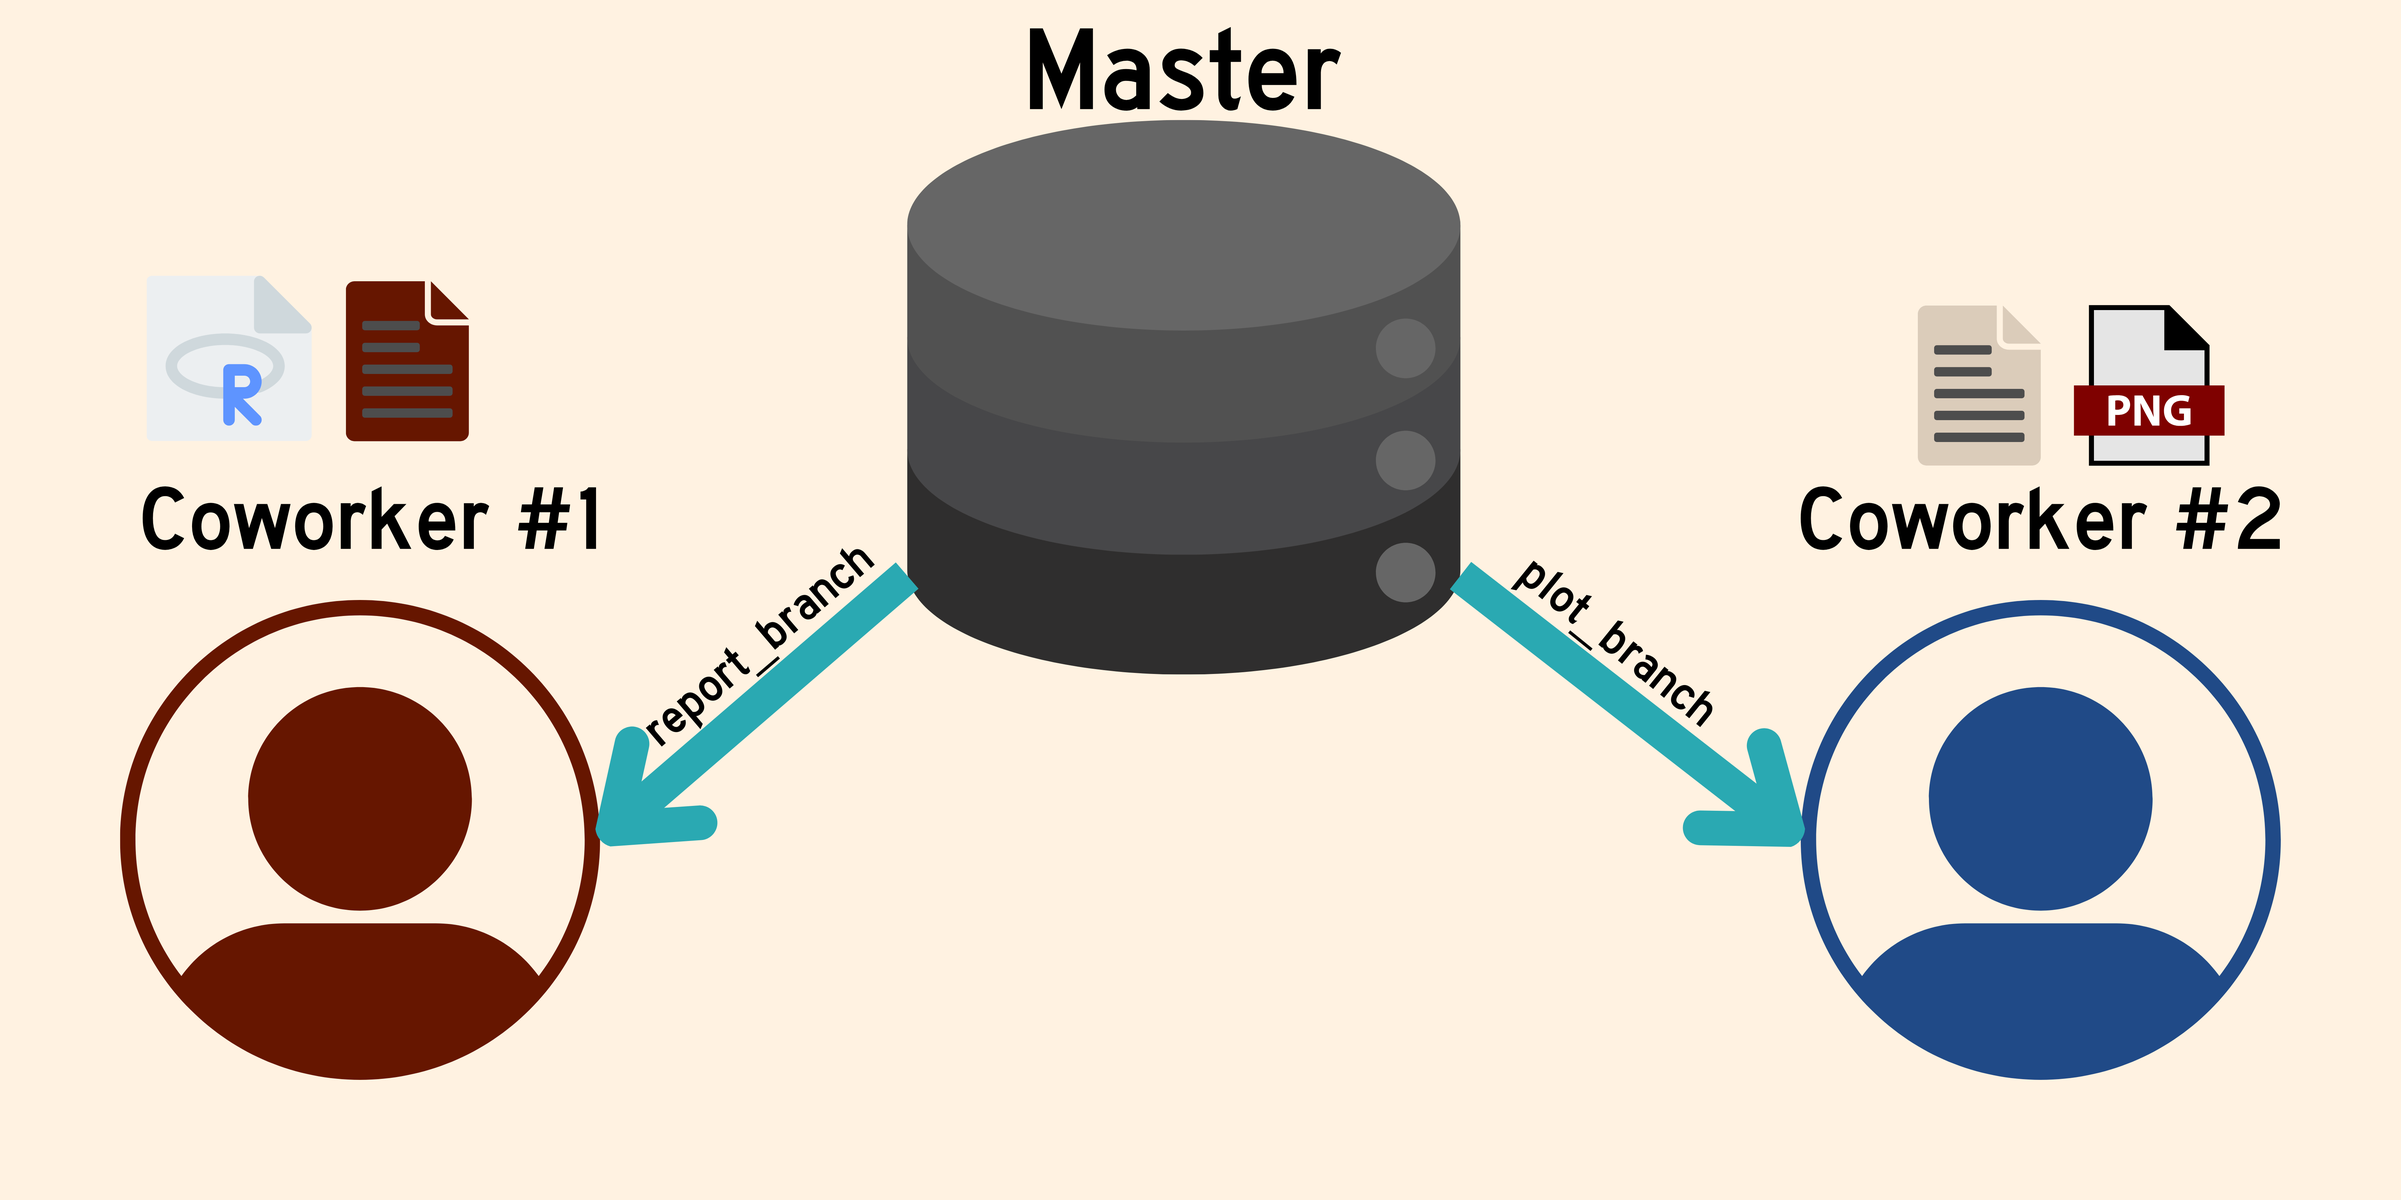
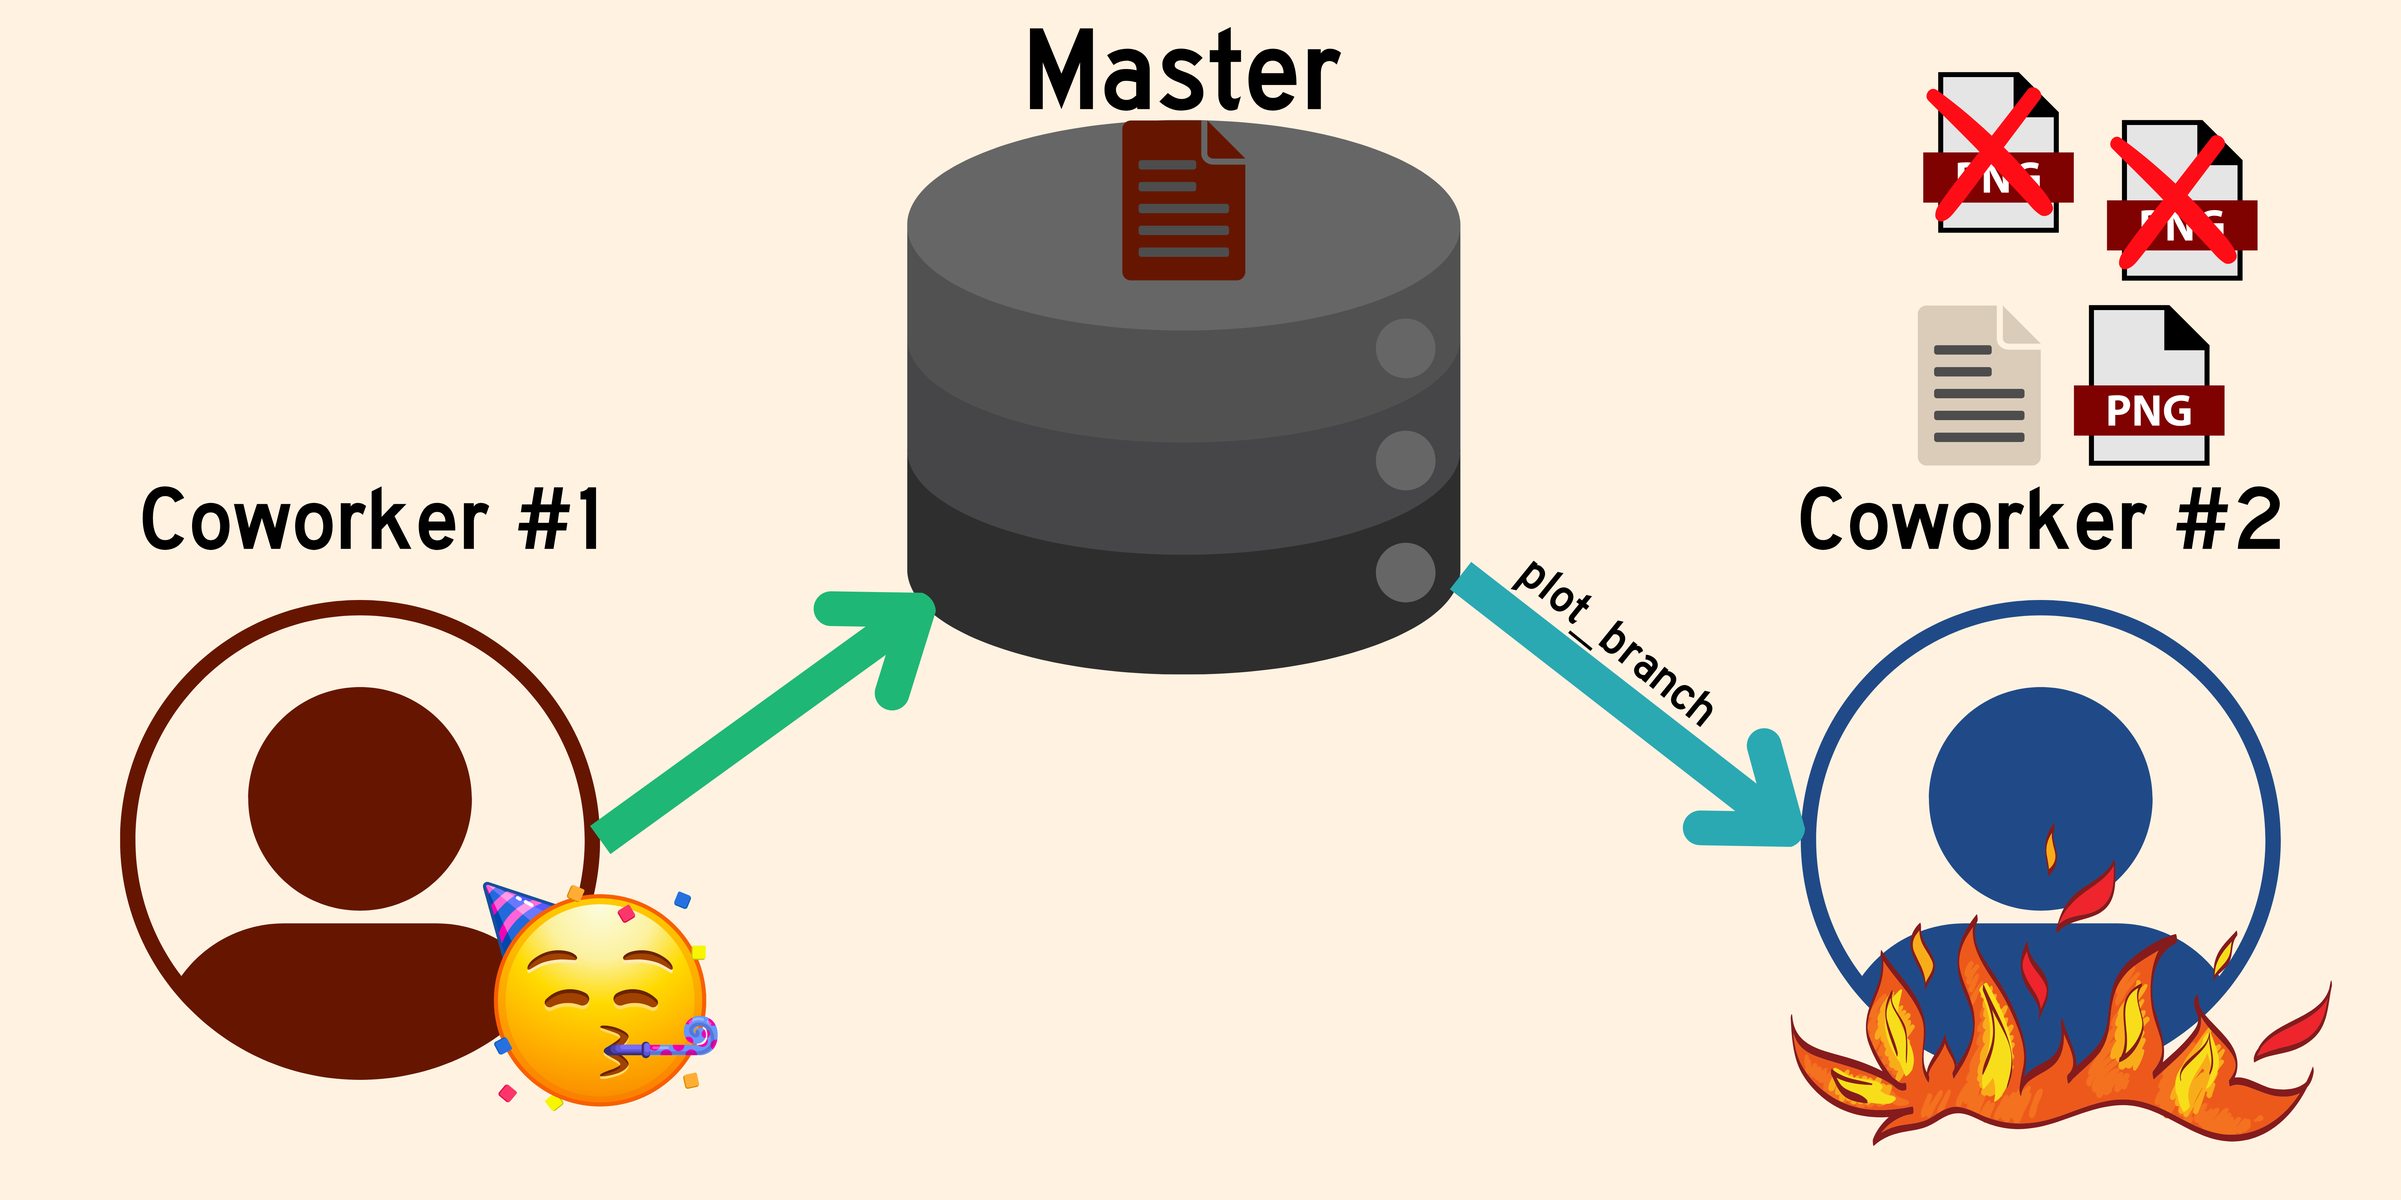
We are in cleanup Phase!!! 🎉

diff --git a/please_let_me_merge.html b/please_let_me_merge.html
@@ -1004,8 +1004,10 @@
 <h2>Simple Merge Conflict Example</h2>
 <aside class="notes">
 <ul>
-<li>coworker 1 is about done <br>changed config file to go w work</li>
-<li>meanwhile cw 2 is doing theirs w/ the orig vs.</li>
+<li>coworker 1 finishes<br></li>
+<li>changed config file to go w/ work<br></li>
+<li>pushes/merge np<br></li>
+<li>meanwhile cw 2 in iteration hell w/ the orig vs.</li>
 </ul>
 <style type="text/css">
         span.MJX_Assistive_MathML {
@@ -1022,10 +1024,7 @@
 <section id="simple-merge-conflict-example-2" class="slide level2 section-header" data-background-image="images/conflict_vis_3.png" data-background-size="contain" data-background-color="#1a1a1a">
 <h2>Simple Merge Conflict Example</h2>
 <aside class="notes">
-<ul>
-<li>eventually cw 1 done <br></li>
-<li>pushes/merge np</li>
-</ul>
+<p>when Cw2 finished, had to update config file<br> THEIR version of the config file is different<br> Now they have a merge conflict <br> So, ok. we have the scenario, let’s see what this conflict looks like in the code</p>
 <style type="text/css">
         span.MJX_Assistive_MathML {
           position:absolute!important;
@@ -1038,42 +1037,7 @@
           display:block!important;
       }</style></aside>
 </section>
-<section id="simple-merge-conflict-example-3" class="slide level2 section-header" data-background-image="images/conflict_vis_4.png" data-background-size="contain" data-background-color="#1a1a1a">
-<h2>Simple Merge Conflict Example</h2>
-<aside class="notes">
-<ul>
-<li>poor cw 2 is stuck in iteration hell <br></li>
-<li>takes a while, when done, changes config file</li>
-</ul>
-<style type="text/css">
-        span.MJX_Assistive_MathML {
-          position:absolute!important;
-          clip: rect(1px, 1px, 1px, 1px);
-          padding: 1px 0 0 0!important;
-          border: 0!important;
-          height: 1px!important;
-          width: 1px!important;
-          overflow: hidden!important;
-          display:block!important;
-      }</style></aside>
-</section>
-<section id="simple-merge-conflict-example-4" class="slide level2 section-header" data-background-image="images/conflict_vis_5.png" data-background-size="contain" data-background-color="#1a1a1a">
-<h2>Simple Merge Conflict Example</h2>
-<aside class="notes">
-<p>when Cw2 finished so much time passed, <br> THEIR version of the config file is different <br> Now they have a merge conflict <br> So, ok. we have the scenario, let’s see what this conflict looks like in the code</p>
-<style type="text/css">
-        span.MJX_Assistive_MathML {
-          position:absolute!important;
-          clip: rect(1px, 1px, 1px, 1px);
-          padding: 1px 0 0 0!important;
-          border: 0!important;
-          height: 1px!important;
-          width: 1px!important;
-          overflow: hidden!important;
-          display:block!important;
-      }</style></aside>
-</section>
-<section id="simple-merge-conflict-example-5" class="slide level2 content-header" data-background-image="images/content_back.png" data-background-size="contain" data-background-color="#1a1a1a">
+<section id="simple-merge-conflict-example-3" class="slide level2 content-header" data-background-image="images/content_back.png" data-background-size="contain" data-background-color="#1a1a1a">
 <h2>Simple Merge Conflict Example</h2>
 <div class="content">
 <p><img data-src="images/simple_ex_1_highlight.png"></p>
@@ -1097,7 +1061,7 @@
           display:block!important;
       }</style></aside>
 </section>
-<section id="simple-merge-conflict-example-6" class="slide level2 content-header" data-background-image="images/content_back.png" data-background-size="contain" data-background-color="#1a1a1a">
+<section id="simple-merge-conflict-example-4" class="slide level2 content-header" data-background-image="images/content_back.png" data-background-size="contain" data-background-color="#1a1a1a">
 <h2>Simple Merge Conflict Example</h2>
 <div class="sourceCode" id="cb1"><pre class="sourceCode numberSource yaml number-lines code-with-copy"><code class="sourceCode yaml"><span id="cb1-1"><a href=""></a><span class="co">#=============================#</span></span>
 <span id="cb1-2"><a href=""></a><span class="co"># Data Cut Dates---------------</span></span>
@@ -1125,7 +1089,7 @@
           display:block!important;
       }</style></aside>
 </section>
-<section id="simple-merge-conflict-example-7" class="slide level2 content-header" data-background-image="images/content_back.png" data-background-size="contain" data-background-color="#1a1a1a">
+<section id="simple-merge-conflict-example-5" class="slide level2 content-header" data-background-image="images/content_back.png" data-background-size="contain" data-background-color="#1a1a1a">
 <h2>Simple Merge Conflict Example</h2>
 <div class="sourceCode" id="cb2"><pre class="sourceCode numberSource yaml number-lines code-with-copy"><code class="sourceCode yaml"><span id="cb2-1"><a href=""></a><span class="co">#=============================#</span></span>
 <span id="cb2-2"><a href=""></a><span class="co"># Data Cut Dates---------------</span></span>
@@ -1153,7 +1117,7 @@
           display:block!important;
       }</style></aside>
 </section>
-<section id="simple-merge-conflict-example-8" class="slide level2 content-header" data-background-image="images/content_back.png" data-background-size="contain" data-background-color="#1a1a1a">
+<section id="simple-merge-conflict-example-6" class="slide level2 content-header" data-background-image="images/content_back.png" data-background-size="contain" data-background-color="#1a1a1a">
 <h2>Simple Merge Conflict Example</h2>
 <div class="sourceCode" id="cb3"><pre class="sourceCode numberSource yaml number-lines code-with-copy"><code class="sourceCode yaml"><span id="cb3-1"><a href=""></a><span class="co">#=============================#</span></span>
 <span id="cb3-2"><a href=""></a><span class="co"># Data Cut Dates---------------</span></span>
@@ -1183,7 +1147,7 @@
           display:block!important;
       }</style></aside>
 </section>
-<section id="simple-merge-conflict-example-9" class="slide level2 content-header" data-background-image="images/content_back.png" data-background-size="contain" data-background-color="#1a1a1a">
+<section id="simple-merge-conflict-example-7" class="slide level2 content-header" data-background-image="images/content_back.png" data-background-size="contain" data-background-color="#1a1a1a">
 <h2>Simple Merge Conflict Example</h2>
 <div class="sourceCode" id="cb4"><pre class="sourceCode numberSource yaml number-lines code-with-copy"><code class="sourceCode yaml"><span id="cb4-1"><a href=""></a><span class="co">#=============================#</span></span>
 <span id="cb4-2"><a href=""></a><span class="co"># Data Cut Dates---------------</span></span>
@@ -1214,7 +1178,7 @@
           display:block!important;
       }</style></aside>
 </section>
-<section id="simple-merge-conflict-example-10" class="slide level2 content-header" data-background-image="images/content_back.png" data-background-size="contain" data-background-color="#1a1a1a">
+<section id="simple-merge-conflict-example-8" class="slide level2 content-header" data-background-image="images/content_back.png" data-background-size="contain" data-background-color="#1a1a1a">
 <h2>Simple Merge Conflict Example</h2>
 <div class="sourceCode" id="cb5"><pre class="sourceCode numberSource yaml number-lines code-with-copy"><code class="sourceCode yaml"><span id="cb5-1"><a href=""></a><span class="co">#=============================#</span></span>
 <span id="cb5-2"><a href=""></a><span class="co"># Data Cut Dates---------------</span></span>
@@ -1848,24 +1812,11 @@
 <section id="maybe-this-wont-be-so-bad" class="slide level2 section-header" data-background-image="images/4.png" data-background-size="contain" data-background-color="#1a1a1a">
 <h2>Maybe This Won’t Be So Bad</h2>
 <aside class="notes">
-<p>Now what do I mean? Let’s talk about it<br> one of the hardest pills to <strong>swallow was realizing…</strong></p>
-<style type="text/css">
-        span.MJX_Assistive_MathML {
-          position:absolute!important;
-          clip: rect(1px, 1px, 1px, 1px);
-          padding: 1px 0 0 0!important;
-          border: 0!important;
-          height: 1px!important;
-          width: 1px!important;
-          overflow: hidden!important;
-          display:block!important;
-      }</style></aside>
-</section>
-<section id="conflicts-are-not-git-problems" class="slide level2 section-header" data-background-image="images/the_truth1.png" data-background-size="contain" data-background-color="#1a1a1a">
-<h2>Conflicts are Not Git Problems</h2>
-<aside class="notes">
 <ul>
+<li>one of the hardest pills to <strong>swallow was realizing…</strong><br></li>
 <li>spent time being scared</li>
+<li>need to be scared of ME (flows and process)</li>
+<li>You may not realize..</li>
 </ul>
 <style type="text/css">
         span.MJX_Assistive_MathML {
@@ -1879,25 +1830,7 @@
           display:block!important;
       }</style></aside>
 </section>
-<section id="conflicts-are-not-git-problems-1" class="slide level2 section-header" data-background-image="images/the_truth2.png" data-background-size="contain" data-background-color="#1a1a1a">
-<h2>Conflicts are Not Git Problems</h2>
-<aside class="notes">
-<ul>
-<li>really needed to be scared of myself</li>
-</ul>
-<style type="text/css">
-        span.MJX_Assistive_MathML {
-          position:absolute!important;
-          clip: rect(1px, 1px, 1px, 1px);
-          padding: 1px 0 0 0!important;
-          border: 0!important;
-          height: 1px!important;
-          width: 1px!important;
-          overflow: hidden!important;
-          display:block!important;
-      }</style></aside>
-</section>
-<section id="conflicts-are-not-git-problems-2" class="slide level2 content-header" data-background-image="images/content_back.png" data-background-size="contain" data-background-color="#1a1a1a">
+<section id="conflicts-are-not-git-problems" class="slide level2 content-header" data-background-image="images/content_back.png" data-background-size="contain" data-background-color="#1a1a1a">
 <h2>Conflicts are Not Git Problems</h2>
 <div class="content">
 <p>Merge conflicts are not Git problems</p>
@@ -2281,24 +2214,131 @@
 </ul></li>
 </ul>
 </div>
+<aside class="notes">
+<p>you will eventually get to a point where you say…</p>
+<style type="text/css">
+        span.MJX_Assistive_MathML {
+          position:absolute!important;
+          clip: rect(1px, 1px, 1px, 1px);
+          padding: 1px 0 0 0!important;
+          border: 0!important;
+          height: 1px!important;
+          width: 1px!important;
+          overflow: hidden!important;
+          display:block!important;
+      }</style></aside>
 </section>
 <section id="i-got-this" class="slide level2 section-header" data-background-image="images/5.png" data-background-size="contain" data-background-color="#1a1a1a">
 <h2>I Got This</h2>
+<aside class="notes">
+<p>Just like with parenting, travelling, and most difficult things in life, there’s no tried and true method to success that anyone can just follow when it comes to learning how to resolve git merge conflicts. You’ll find plenty of resources explaining the basic concept of conflict resolution, but it’s a tricky thing to teach because while most real-world conflicts are simple, all of them require some type of contextual knowledge. The only truly reliable method to learning how to to do certain things like driving or resolving git merge conflicts is through preparation, practice, and exposure. But for those of you that have been afraid of merge conflicts, or are still afraid, I know that this.. (click)</p>
+<style type="text/css">
+        span.MJX_Assistive_MathML {
+          position:absolute!important;
+          clip: rect(1px, 1px, 1px, 1px);
+          padding: 1px 0 0 0!important;
+          border: 0!important;
+          height: 1px!important;
+          width: 1px!important;
+          overflow: hidden!important;
+          display:block!important;
+      }</style></aside>
 </section>
 <section id="section" class="slide level2 section-header" data-background-image="images/1_end.png" data-background-size="contain" data-background-color="#1a1a1a">
 <h2></h2>
+<aside class="notes">
+<p>…scene is probably what it feels like right now, but if you take the time to let the…</p>
+<style type="text/css">
+        span.MJX_Assistive_MathML {
+          position:absolute!important;
+          clip: rect(1px, 1px, 1px, 1px);
+          padding: 1px 0 0 0!important;
+          border: 0!important;
+          height: 1px!important;
+          width: 1px!important;
+          overflow: hidden!important;
+          display:block!important;
+      }</style></aside>
 </section>
 <section id="section-1" class="slide level2 section-header" data-background-image="images/2_end.png" data-background-size="contain" data-background-color="#1a1a1a">
 <h2></h2>
+<aside class="notes">
+<p>dust settle and regain your bearings, you and your team can start preparing to work more efficiently by improving gaps in your communication, workflow, and knowledge..</p>
+<style type="text/css">
+        span.MJX_Assistive_MathML {
+          position:absolute!important;
+          clip: rect(1px, 1px, 1px, 1px);
+          padding: 1px 0 0 0!important;
+          border: 0!important;
+          height: 1px!important;
+          width: 1px!important;
+          overflow: hidden!important;
+          display:block!important;
+      }</style></aside>
 </section>
 <section id="section-2" class="slide level2 section-header" data-background-image="images/3_end.png" data-background-size="contain" data-background-color="#1a1a1a">
 <h2></h2>
+<aside class="notes">
+<p>And eventually, each time you run into a merge conflict…</p>
+<style type="text/css">
+        span.MJX_Assistive_MathML {
+          position:absolute!important;
+          clip: rect(1px, 1px, 1px, 1px);
+          padding: 1px 0 0 0!important;
+          border: 0!important;
+          height: 1px!important;
+          width: 1px!important;
+          overflow: hidden!important;
+          display:block!important;
+      }</style></aside>
 </section>
 <section id="section-3" class="slide level2 section-header" data-background-image="images/4_end.png" data-background-size="contain" data-background-color="#1a1a1a">
 <h2></h2>
+<aside class="notes">
+<p>It will be less scary, until suddenly..</p>
+<style type="text/css">
+        span.MJX_Assistive_MathML {
+          position:absolute!important;
+          clip: rect(1px, 1px, 1px, 1px);
+          padding: 1px 0 0 0!important;
+          border: 0!important;
+          height: 1px!important;
+          width: 1px!important;
+          overflow: hidden!important;
+          display:block!important;
+      }</style></aside>
 </section>
 <section id="section-4" class="slide level2 section-header" data-background-image="images/5_end.png" data-background-size="contain" data-background-color="#1a1a1a">
 <h2></h2>
+<aside class="notes">
+<p>…you’ll realize you don’t have to plead with git to let you merge anymore because You have the power to control the journey your work takes to get…</p>
+<style type="text/css">
+        span.MJX_Assistive_MathML {
+          position:absolute!important;
+          clip: rect(1px, 1px, 1px, 1px);
+          padding: 1px 0 0 0!important;
+          border: 0!important;
+          height: 1px!important;
+          width: 1px!important;
+          overflow: hidden!important;
+          display:block!important;
+      }</style></aside>
+</section>
+<section id="section-5" class="slide level2 section-header" data-background-image="images/beach.png" data-background-size="contain" data-background-color="#1a1a1a">
+<h2></h2>
+<aside class="notes">
+<p>…to the destination. Thank You.</p>
+<style type="text/css">
+        span.MJX_Assistive_MathML {
+          position:absolute!important;
+          clip: rect(1px, 1px, 1px, 1px);
+          padding: 1px 0 0 0!important;
+          border: 0!important;
+          height: 1px!important;
+          width: 1px!important;
+          overflow: hidden!important;
+          display:block!important;
+      }</style></aside>
 <div class="quarto-auto-generated-content">
 <div class="footer footer-default">
 

diff --git a/scripts/style.css b/scripts/style.css
@@ -101,19 +101,19 @@ li:nth-child(n) {
   margin-top: 0%;
 }
 
-#simple-merge-conflict-example-5 > div > p:nth-child(1) > img{
+#simple-merge-conflict-example-3 > div > p:nth-child(1) > img{
   margin-left: -10%;
   float: left;
   padding-right: 2%;
   width: 50%;
 }
 
-#simple-merge-conflict-example-5 > div > p:nth-child(2) > img{
+#simple-merge-conflict-example-3 > div > p:nth-child(2) > img{
   width: 50%;
   padding-left: 2%;
 }
 
-#simple-merge-conflict-example-5 > div{
+#simple-merge-conflict-example-3 > div{
   margin-left: -25%;
   width: 150%;
 }
@@ -598,7 +598,7 @@ li:nth-child(n) {
   color: darkred !important;
 }
 
-#conflicts-are-not-git-problems-2 > div > div:nth-child(n) > ul{
+#conflicts-are-not-git-problems > div > div:nth-child(n) > ul{
   margin-left: 20%;
 }
 
